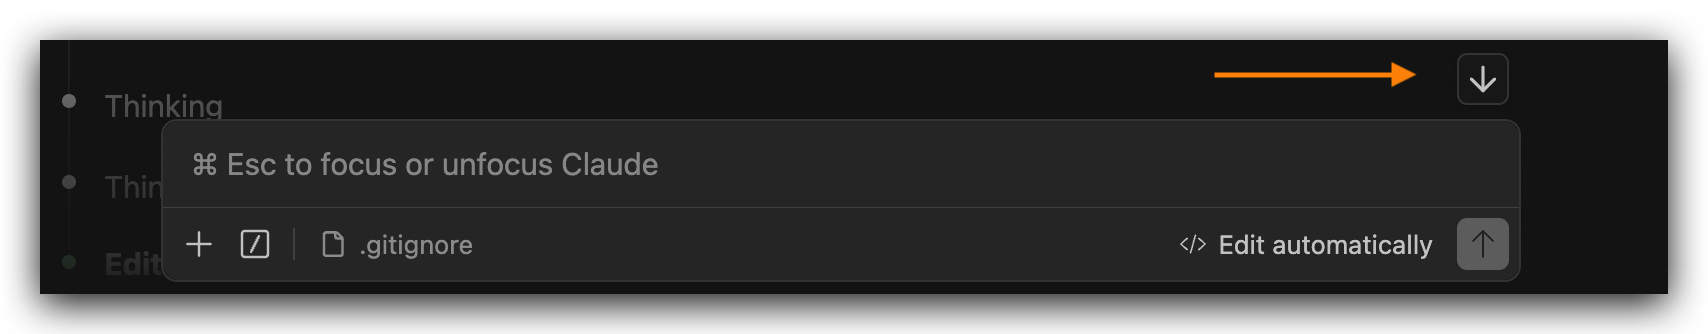
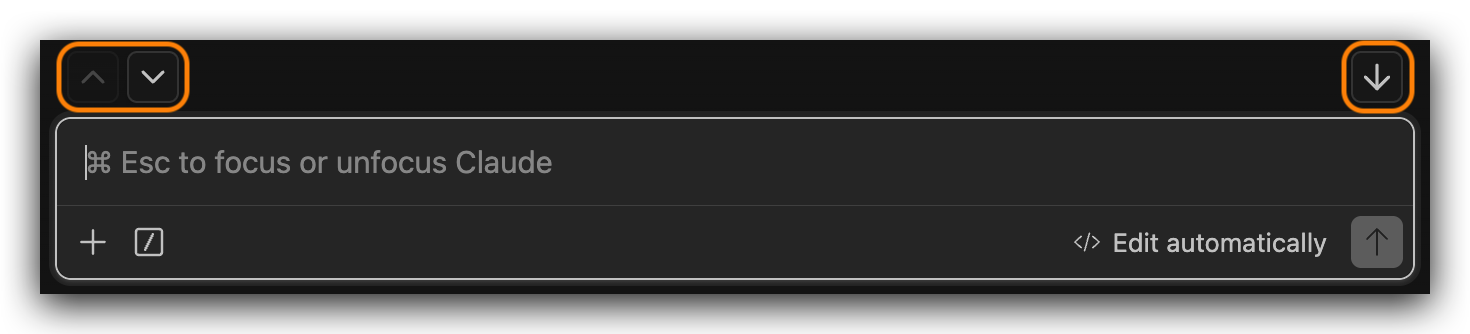
Add jump to previous/next message buttons
* new chatJumpToMessageButtons toggle: always-visible chevron pair above
  the input box's top-left corner, aligned over the + and / buttons
* each user message is a sticky turn header; prev/next glide the chat so
  the target header sits flush at the top, in the scroll button's 100ms
* measure natural header positions at click time by neutralizing sticky
  pinning, since pinned headers report offsetTop at the scrollport top
* swallow mousedown/click so the composer cannot steal focus or scroll
  to the bottom over the glide
* dim an exhausted direction instead of hiding, matching the
  scroll-to-bottom button's shape, hover, and row
* update chatbox figure, README knob tree, and changelog

Changed region(s): [[0.0, 0.1198, 0.9796, 0.8683], [0.1837, 0.6886, 0.2755, 0.7784], [0.7041, 0.1796, 0.8265, 0.2695]]

diff --git a/src/patcher.ts b/src/patcher.ts
@@ -46,6 +46,7 @@ const KNOB_ORDER: string[] = [
   "permNoWrap",
   "effortSyncFix",
   "scrollDot", // scroll-to-bottom dot
+  "jumpMsg", // jump to previous/next message
   "text", // plan agent response
   "planCodeInline", // plan inline code
   "code", // plan code block
@@ -545,6 +546,164 @@ function scrollDotSet(c: string, on: boolean): string {
   return `${stripped}\n${line}`;
 }
 
+// Jump-to-previous/next-message buttons (ON): a companion to the
+// scroll-to-bottom button for moving through the conversation a turn at a time.
+// Each user message is a sticky header (.stickyHeader_<hash>,
+// position:sticky;top:0) that pins to the top of the messages area while its
+// responses scroll underneath, so the natural navigation stops are those
+// headers. When ON we append a marked, self-contained IIFE at the end of
+// webview/index.js that mounts two neutral 26px squares above the input box's
+// top-LEFT corner (anchored to .inputContainer_<hash>), in the same row
+// (top:-34px) as the scroll-to-bottom button on the right: a chevron-up
+// "previous" at left:5px and a chevron-down "next" at left:35px, aligned over the
+// footer's + and / buttons below (the footer's 5px left padding and ~30px button
+// pitch, mirroring the scroll button's right:5px inset). The two features stay
+// independent toggles; the scroll-to-bottom button keeps the right:5px slot, so
+// the row reads as left-nav / right-scroll. Each square matches the send button's
+// rounded-square look via the input's own surface, border, and text color, with
+// the same doubled ghost-button hover, and carries a native tooltip.
+//
+// The stops are the headers' natural (unstuck) positions in the scroll range,
+// and offsetTop alone cannot supply them: the sticky shift is part of layout, so
+// a pinned header reports the shifted position (~scrollTop), not its flow slot.
+// With top:0 against the whole container every header scrolled past pins at the
+// scrollport top in one pile (painted in document order, so the latest pinned
+// header is the visible one) and all of them read ~scrollTop. A click therefore
+// measures natural positions by neutralizing the pile for one synchronous pass:
+// set inline position:static on every header, read offsetTop (headers offset
+// from .messagesContainer_<hash>, the position:relative offsetParent), restore.
+// No paint happens between the writes and the restore (a forced layout at most),
+// so nothing flickers, and static occupies the same flow slot, so scrollHeight
+// and the scroll position are unchanged. "Previous" glides to the greatest
+// natural position more than 4px above scrollTop (the epsilon absorbs sub-pixel
+// drift): from the bottom that pins the newest turn's header, and further clicks
+// step a turn up. "Next" glides to the least natural position more than 4px
+// below. The glide is the scroll-to-bottom button's fixed 100ms ease-out rAF
+// animation (instant under prefers-reduced-motion), clamped to the scrollable
+// range, with a per-click generation token cancelling a superseded animation.
+// Both buttons swallow mousedown (preventDefault + stopPropagation) and click
+// (stopPropagation): they sit inside the composer container, whose own handlers
+// otherwise steal focus and scroll the chat to the bottom, overriding the glide.
+//
+// The pair is always visible (unlike the scroll-to-bottom button), so from the
+// bottom it doubles as "jump back to the newest user message"; only an exhausted
+// direction dims and goes inert (data-off) rather than being removed, keeping
+// the shape stable. The dimming census needs no natural positions: raw
+// offsetTops classify headers as below the scrollport top (> scrollTop+4px;
+// never pinned, so trustworthy) or in the pile at/above it. "Next" lights on any
+// header below; "previous" on a pile of two or more (the pile's own newest turn
+// plus at least one earlier). Mounting, re-mount on re-render, and the
+// rAF-coalesced updater (capture-phase scroll, resize, body MutationObserver)
+// mirror the scroll-to-bottom button; data-show/data-off sit outside the
+// observer's class/style attribute filter, so the updater never re-triggers
+// itself (the click-time static/restore writes do re-trigger it once,
+// harmlessly). The three class-map hashes (messageInput's inputContainer,
+// messagesContainer, and stickyHeader) are read at patch time; if any is gone
+// the point reports missing and the bundle stays native. try/catch wraps the
+// whole body, and the /*ccup:jumpMsg*/ marker makes the ON state detectable; a
+// marked line that no longer matches the current build reads as OFF, so the next
+// apply rebuilds it in place or strips it.
+const JUMP_MSG_MARKER = "/*ccup:jumpMsg*/";
+const JUMP_MSG_LINE_RE = /\n?\/\*ccup:jumpMsg\*\/[^\n]*/g;
+const JUMP_MSG_INPUT_HASH_RE = /messageInput:"messageInput_([-\w]+)"/;
+const JUMP_MSG_CHAT_HASH_RE = /messagesContainer:"messagesContainer_([-\w]+)"/;
+const JUMP_MSG_STICKY_HASH_RE = /stickyHeader:"stickyHeader_([-\w]+)"/;
+
+// The full marked line for this bundle, or undefined when a class-map anchor is
+// gone. Deterministic given the bundle content, so equality against the on-disk
+// line doubles as the staleness check.
+function jumpMsgBuild(c: string): string | undefined {
+  const input = c.match(JUMP_MSG_INPUT_HASH_RE)?.[1];
+  const chat = c.match(JUMP_MSG_CHAT_HASH_RE)?.[1];
+  const sticky = c.match(JUMP_MSG_STICKY_HASH_RE)?.[1];
+  if (!input || !chat || !sticky) return undefined;
+  // Two 26px squares matching the scroll-to-bottom button, above the input's
+  // top-left corner (left:5/35px) so they sit over the footer's + and / buttons;
+  // box-sizing keeps the 1px border from inflating them. data-show fades a button
+  // in; data-show+data-off dims an exhausted direction.
+  const ghost2 =
+    "linear-gradient(var(--app-ghost-button-hover-background),var(--app-ghost-button-hover-background)),linear-gradient(var(--app-ghost-button-hover-background),var(--app-ghost-button-hover-background))";
+  const css =
+    ".ccup-nav-btn{box-sizing:border-box;position:absolute;top:-34px;display:flex;align-items:center;justify-content:center;width:26px;height:26px;margin:0;padding:0;border:1px solid var(--app-input-border);border-radius:5px;background:var(--app-input-secondary-background);color:var(--app-primary-foreground);box-shadow:0 1px 3px #00000033;cursor:pointer;opacity:0;transform:translateY(4px);pointer-events:none;transition:opacity .15s ease,transform .15s ease,filter .15s ease;z-index:21}" +
+    ".ccup-nav-prev{left:5px}.ccup-nav-next{left:35px}" +
+    ".ccup-nav-btn[data-show]{opacity:1;transform:none;pointer-events:auto}" +
+    ".ccup-nav-btn[data-show][data-off]{opacity:.35;pointer-events:none}" +
+    `.ccup-nav-btn:hover{background:${ghost2},var(--app-input-secondary-background);border-color:var(--app-secondary-foreground)}` +
+    ".ccup-nav-btn:active{filter:brightness(.85)}" +
+    ".ccup-nav-btn svg{display:block;width:20px;height:20px}";
+  // Chevron up / down (no stem), distinct from the scroll button's stemmed arrow;
+  // single-quoted attributes embed in the double-quoted JS strings below unescaped.
+  const up =
+    "<svg viewBox='0 0 24 24' fill='none' stroke='currentColor' stroke-width='2' stroke-linecap='round' stroke-linejoin='round'><path d='M18 15l-6-6-6 6'/></svg>";
+  const dn =
+    "<svg viewBox='0 0 24 24' fill='none' stroke='currentColor' stroke-width='2' stroke-linecap='round' stroke-linejoin='round'><path d='M6 9l6 6 6-6'/></svg>";
+  const js =
+    `(function(){try{` +
+    `if(window.__ccupJumpMsg)return;window.__ccupJumpMsg=1;` +
+    `var st=document.createElement("style");st.textContent='${css}';document.head.appendChild(st);` +
+    `var UP="${up}",DN="${dn}",raf=0,gen=0;` +
+    `function sc(){return document.querySelector(".messagesContainer_${chat}")}` +
+    `function hh(t){return t.querySelectorAll(".stickyHeader_${sticky}")}` +
+    // Natural (unstuck) header positions: neutralize sticky, read all, restore.
+    `function nat(t){var h=hh(t),a=[],i;` +
+    `for(i=0;i<h.length;i++)h[i].style.position="static";` +
+    `for(i=0;i<h.length;i++)a.push(h[i].offsetTop);` +
+    `for(i=0;i<h.length;i++)h[i].style.position="";` +
+    `return a}` +
+    // Fixed 100ms ease-out glide to a clamped scrollTop; instant under reduced motion.
+    `function go(to){var t=sc();if(!t)return;var top=Math.max(0,Math.min(to,t.scrollHeight-t.clientHeight));` +
+    `if(matchMedia("(prefers-reduced-motion:reduce)").matches){t.scrollTop=top;return}` +
+    `var g=++gen,f=t.scrollTop,t0;function stp(now){if(g!==gen)return;if(t0===void 0)t0=now;` +
+    `var k=Math.min(1,(now-t0)/100),e=1-(1-k)*(1-k);t.scrollTop=f+(top-f)*e;if(k<1)requestAnimationFrame(stp)}` +
+    `requestAnimationFrame(stp)}` +
+    // Nearest natural position >4px above (dir<0) or below (dir>0) the current top.
+    `function jump(dir){var t=sc();if(!t)return;var a=nat(t),cur=t.scrollTop,best=null,i,o;` +
+    `for(i=0;i<a.length;i++){o=a[i];if(dir<0){if(o<cur-4&&(best===null||o>best))best=o}` +
+    `else if(o>cur+4&&(best===null||o<best))best=o}` +
+    `if(best!==null)go(best)}` +
+    // Buttons swallow mousedown/click so the composer never steals focus or scrolls.
+    `function mk(cls,svg,title,dir){var b=document.createElement("button");b.type="button";b.className="ccup-nav-btn "+cls;` +
+    `b.title=title;b.setAttribute("aria-label",title);b.innerHTML=svg;` +
+    `b.addEventListener("mousedown",function(e){e.preventDefault();e.stopPropagation()});` +
+    `b.addEventListener("click",function(e){e.stopPropagation();jump(dir)});return b}` +
+    // Toggle data-show/data-off only on an actual change (outside the observer filter).
+    `function ss(el,show,off){var s=el.hasAttribute("data-show");if(show&&!s)el.setAttribute("data-show","");else if(!show&&s)el.removeAttribute("data-show");var o=el.hasAttribute("data-off");if(off&&!o)el.setAttribute("data-off","");else if(!off&&o)el.removeAttribute("data-off")}` +
+    // Census on raw offsetTops: pile = pinned at/above the top, below = trustworthy.
+    `function upd(){raf=0;var t=sc(),below=0,pile=0;` +
+    `if(t){var h=hh(t),cur=t.scrollTop;for(var i=0;i<h.length;i++){if(h[i].offsetTop>cur+4)below++;else pile++}}` +
+    `var canP=pile>1,canN=below>0,boxes=document.querySelectorAll(".inputContainer_${input}");` +
+    `for(var j=0;j<boxes.length;j++){var box=boxes[j],p=box.querySelector(".ccup-nav-prev"),n=box.querySelector(".ccup-nav-next");` +
+    `if(!p){p=mk("ccup-nav-prev",UP,"Jump to the previous message",-1);box.appendChild(p)}` +
+    `if(!n){n=mk("ccup-nav-next",DN,"Jump to the next message",1);box.appendChild(n)}` +
+    `ss(p,!0,!canP);ss(n,!0,!canN)}}` +
+    `function que(){if(!raf)raf=requestAnimationFrame(upd)}` +
+    `document.addEventListener("scroll",que,!0);window.addEventListener("resize",que);` +
+    `new MutationObserver(que).observe(document.body,{childList:!0,subtree:!0,characterData:!0,attributes:!0,attributeFilter:["class","style"]});` +
+    `que()` +
+    `}catch(e){}})();`;
+  return `${JUMP_MSG_MARKER}${js}`;
+}
+
+function jumpMsgPresent(c: string): boolean {
+  return c.includes(JUMP_MSG_MARKER) || jumpMsgBuild(c) !== undefined;
+}
+// true = ON (marked line present and matching this build, or present but
+// unrebuildable so an orphaned line stays removable), false = OFF or stale,
+// undefined = anchors gone and nothing to remove.
+function jumpMsgCurrentOn(c: string): boolean | undefined {
+  const cur = cssMarkedLine(c, JUMP_MSG_MARKER);
+  const want = jumpMsgBuild(c);
+  if (cur !== undefined) return want === undefined || cur === want;
+  return want === undefined ? undefined : false;
+}
+function jumpMsgSet(c: string, on: boolean): string {
+  const stripped = c.replace(JUMP_MSG_LINE_RE, "");
+  if (!on) return stripped;
+  const line = jumpMsgBuild(stripped);
+  if (line === undefined) return c; // anchors gone: leave the file as it is
+  return `${stripped}\n${line}`;
+}
+
 // The chat message "Show more" (.expandButton_<hash>) and "Show less"
 // (.collapseButton_<hash>) buttons live in the expandable-content module. "Show
 // more" is position:absolute (bottom:0;right:0) anchored to the fit-content
@@ -673,6 +832,17 @@ const TOGGLE_POINTS: TogglePoint[] = [
     fnPresent: scrollDotPresent,
     fnCurrentOn: scrollDotCurrentOn,
     fnSet: scrollDotSet,
+  },
+  {
+    id: "jumpMsg",
+    section: "Chat Panel or Tab",
+    label: "previous/next message buttons",
+    key: "chatJumpToMessageButtons",
+    defaultOn: false,
+    file: "webview/index.js",
+    fnPresent: jumpMsgPresent,
+    fnCurrentOn: jumpMsgCurrentOn,
+    fnSet: jumpMsgSet,
   },
   {
     id: "commentCtrlEnter",

diff --git a/README.md b/README.md
@@ -15,10 +15,10 @@ Patch Claude Code VS Code extension UI to provide finegrained settings for vario
 | ![Configuration panel](docs/img/webview.png) |           ![Status bar summary](docs/img/tooltip.png)           |
 |   Adjust the knobs, then **Reload Window**   | Hover the `aA` to show the summary, and click to open the panel |
 
-|                                               Scroll-to-Bottom Button                                               |
-| :-----------------------------------------------------------------------------------------------------------------: |
-|                                  ![Scroll-to-bottom button](docs/img/chatbox.png)                                   |
-| Appears above the input box's top-right corner when the chat is scrolled up; click it to jump to the latest message |
+|                 Previous and Next Turn, Scroll to Bottom                  |
+| :-----------------------------------------------------------------------: |
+|              ![Chat navigation button](docs/img/chatbox.png)              |
+| Jump to the previou / next messages, or to the bottom of the chat history |
 
 1. Open the configuration panel  
    Press `Cmd+Shift+P` / `Ctrl+Shift+P` (or `F1`) to open the Command Palette, then run **Claude Code UI Patch: Open Panel**. Or alternatively, click the `aA` item at the far right of the status bar.
@@ -63,6 +63,7 @@ Plan Mode Markdown Preview
 
 Behavior
    ├── chatInputMaxLines               # input box: grow to N lines + keep bottom gap, 0 -> native
+   ├── chatJumpToMessageButtons        # always-shown prev/next buttons: jump between turns, if On
    ├── chatScrollToBottomDot           # button above input box: click scrolls chat to newest, if On
    ├── chatShowMoreAndLessAlign        # "left" / "right", empty "" -> native
    ├── chatPermissionCodeMatchChatCodeBlock      # chatCodeBlockFontSize (On) or chat.fontSize (Off)

diff --git a/CHANGELOG.md b/CHANGELOG.md
@@ -8,6 +8,10 @@ All notable changes to Claude Code UI Patch are documented here. This project fo
 | ----------- | -------- |
 | 2.1.201+    | 1.1.x    |
 
+## 1.1.11
+
+- Add `claudeCodeUiPatch.chatJumpToMessageButtons`: two always-visible buttons above the chat input box's top-left corner, a chevron-up "previous" and a chevron-down "next" aligned over the `+` and `/` buttons, that step through the conversation a turn at a time.
+
 ## 1.1.10
 
 - Scroll-to-bottom uses a fixed 100ms scrolling instead of smooth scrolling, regardless of how long the history (instant under reduced motion)
